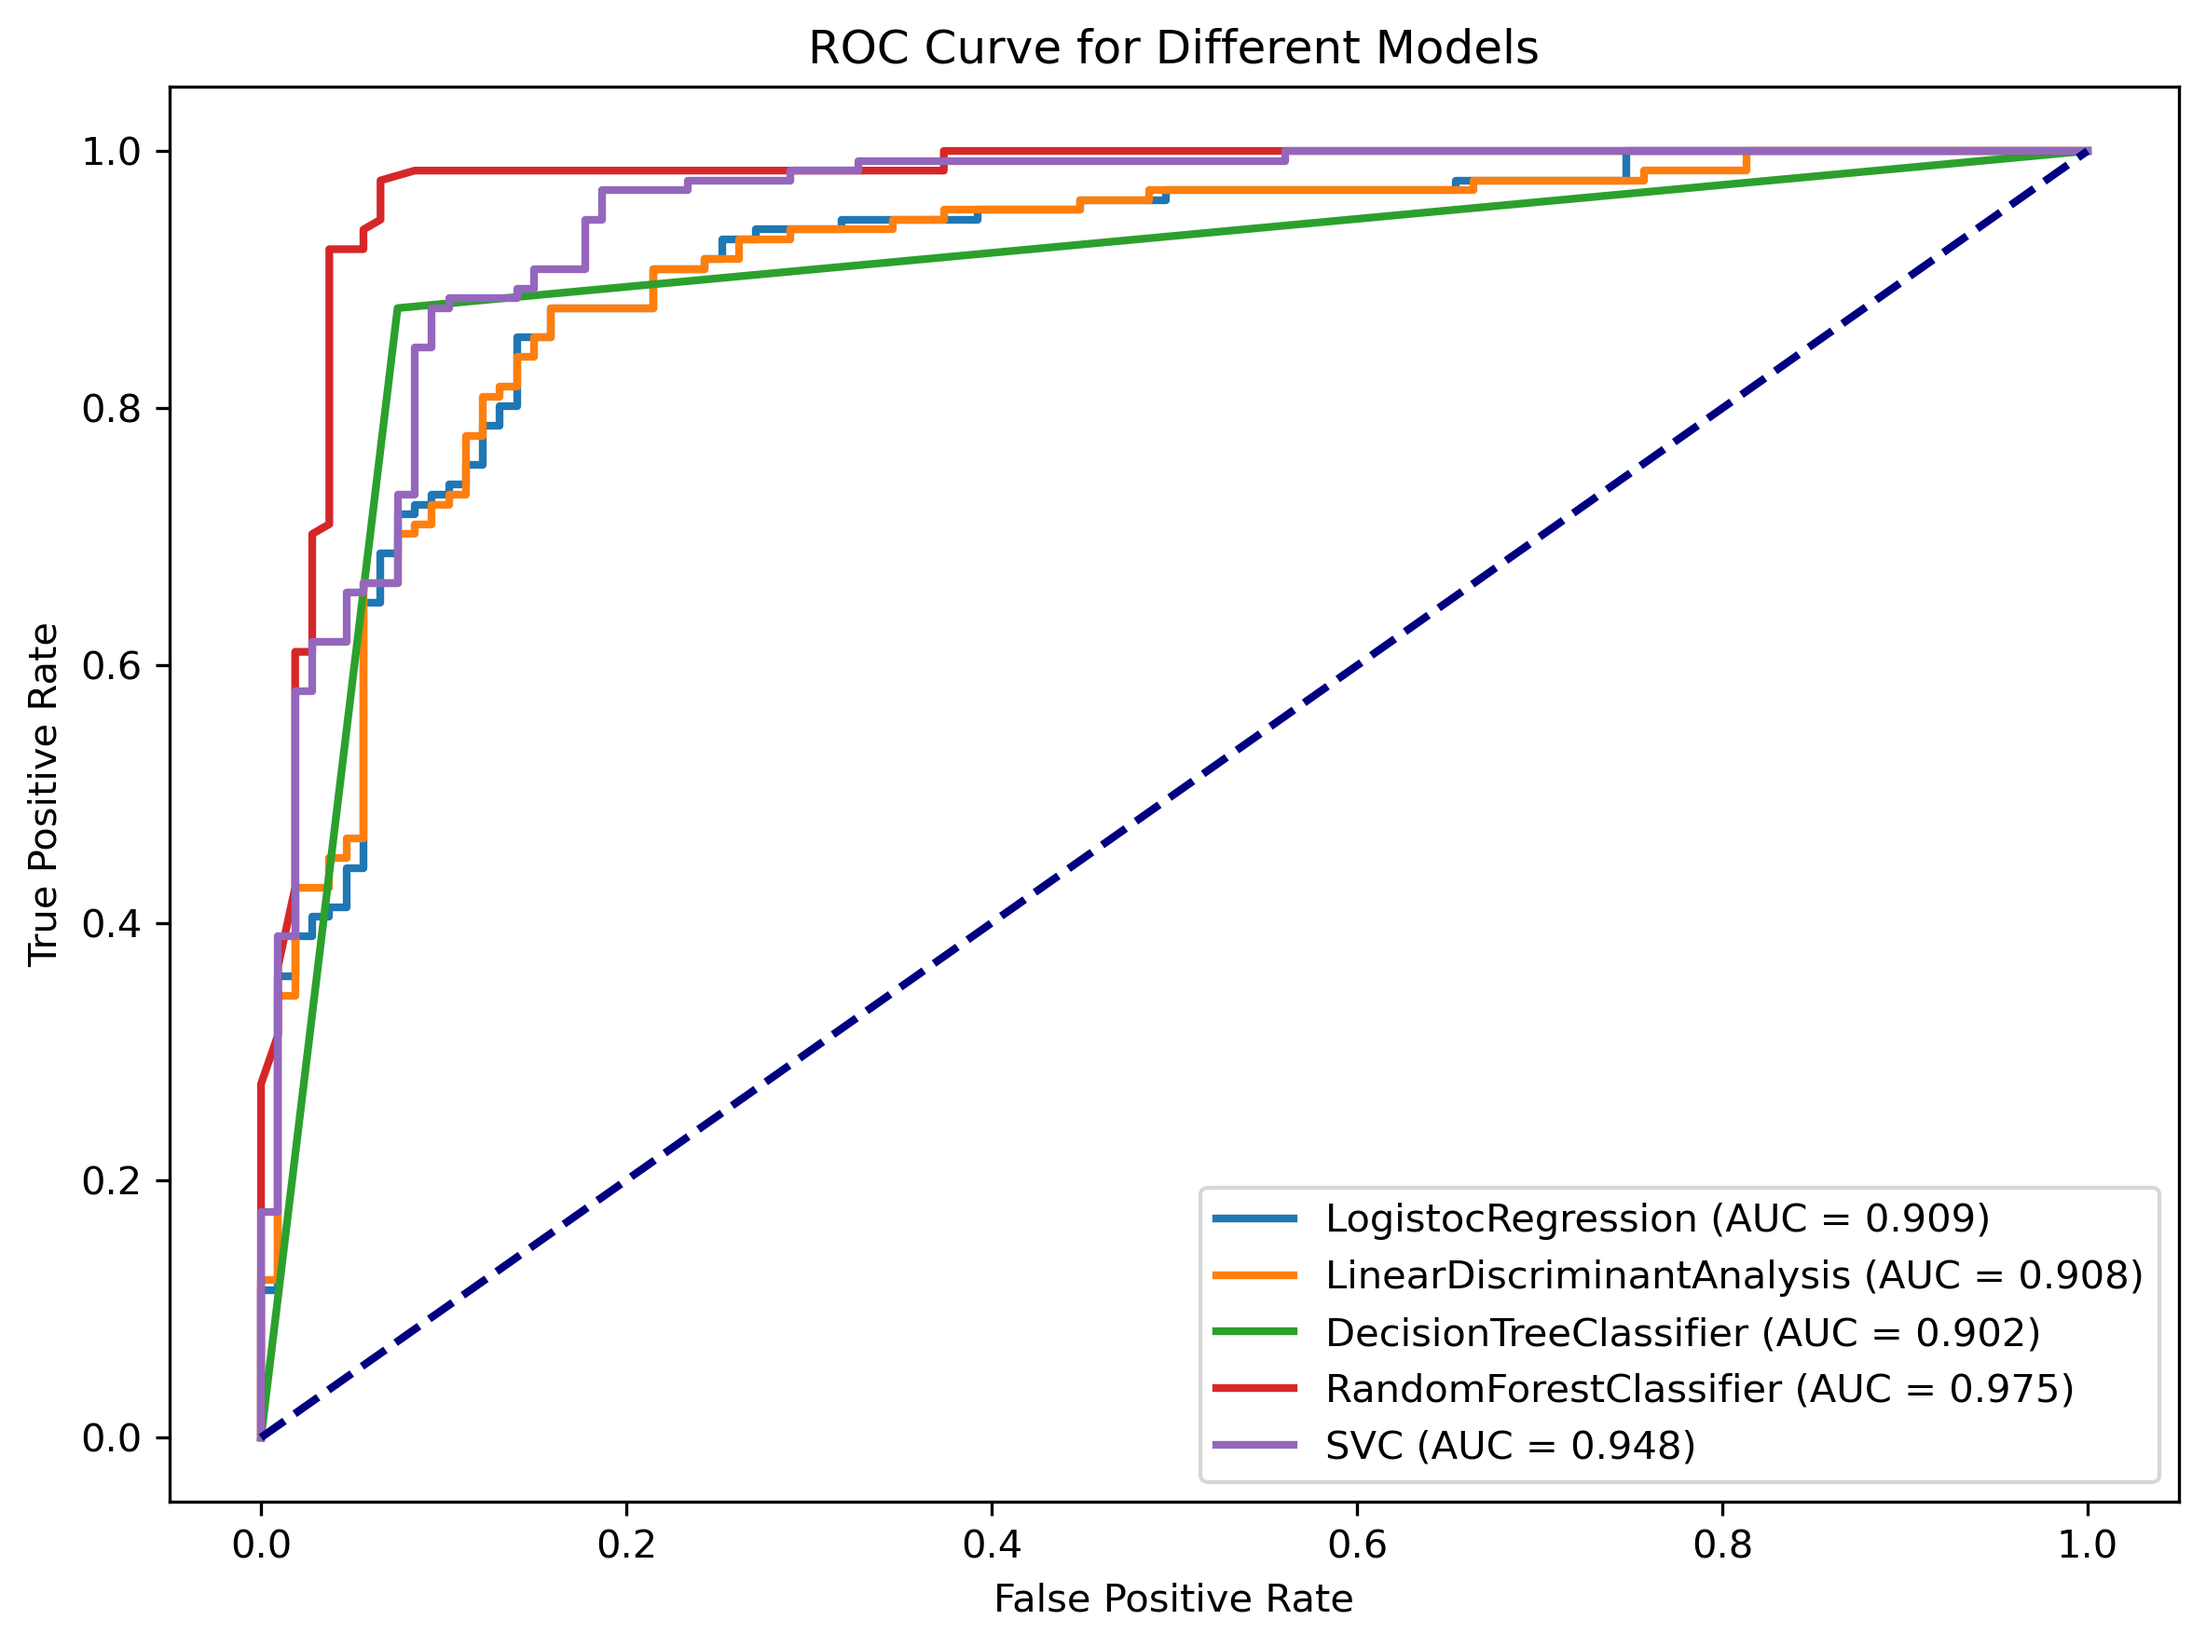
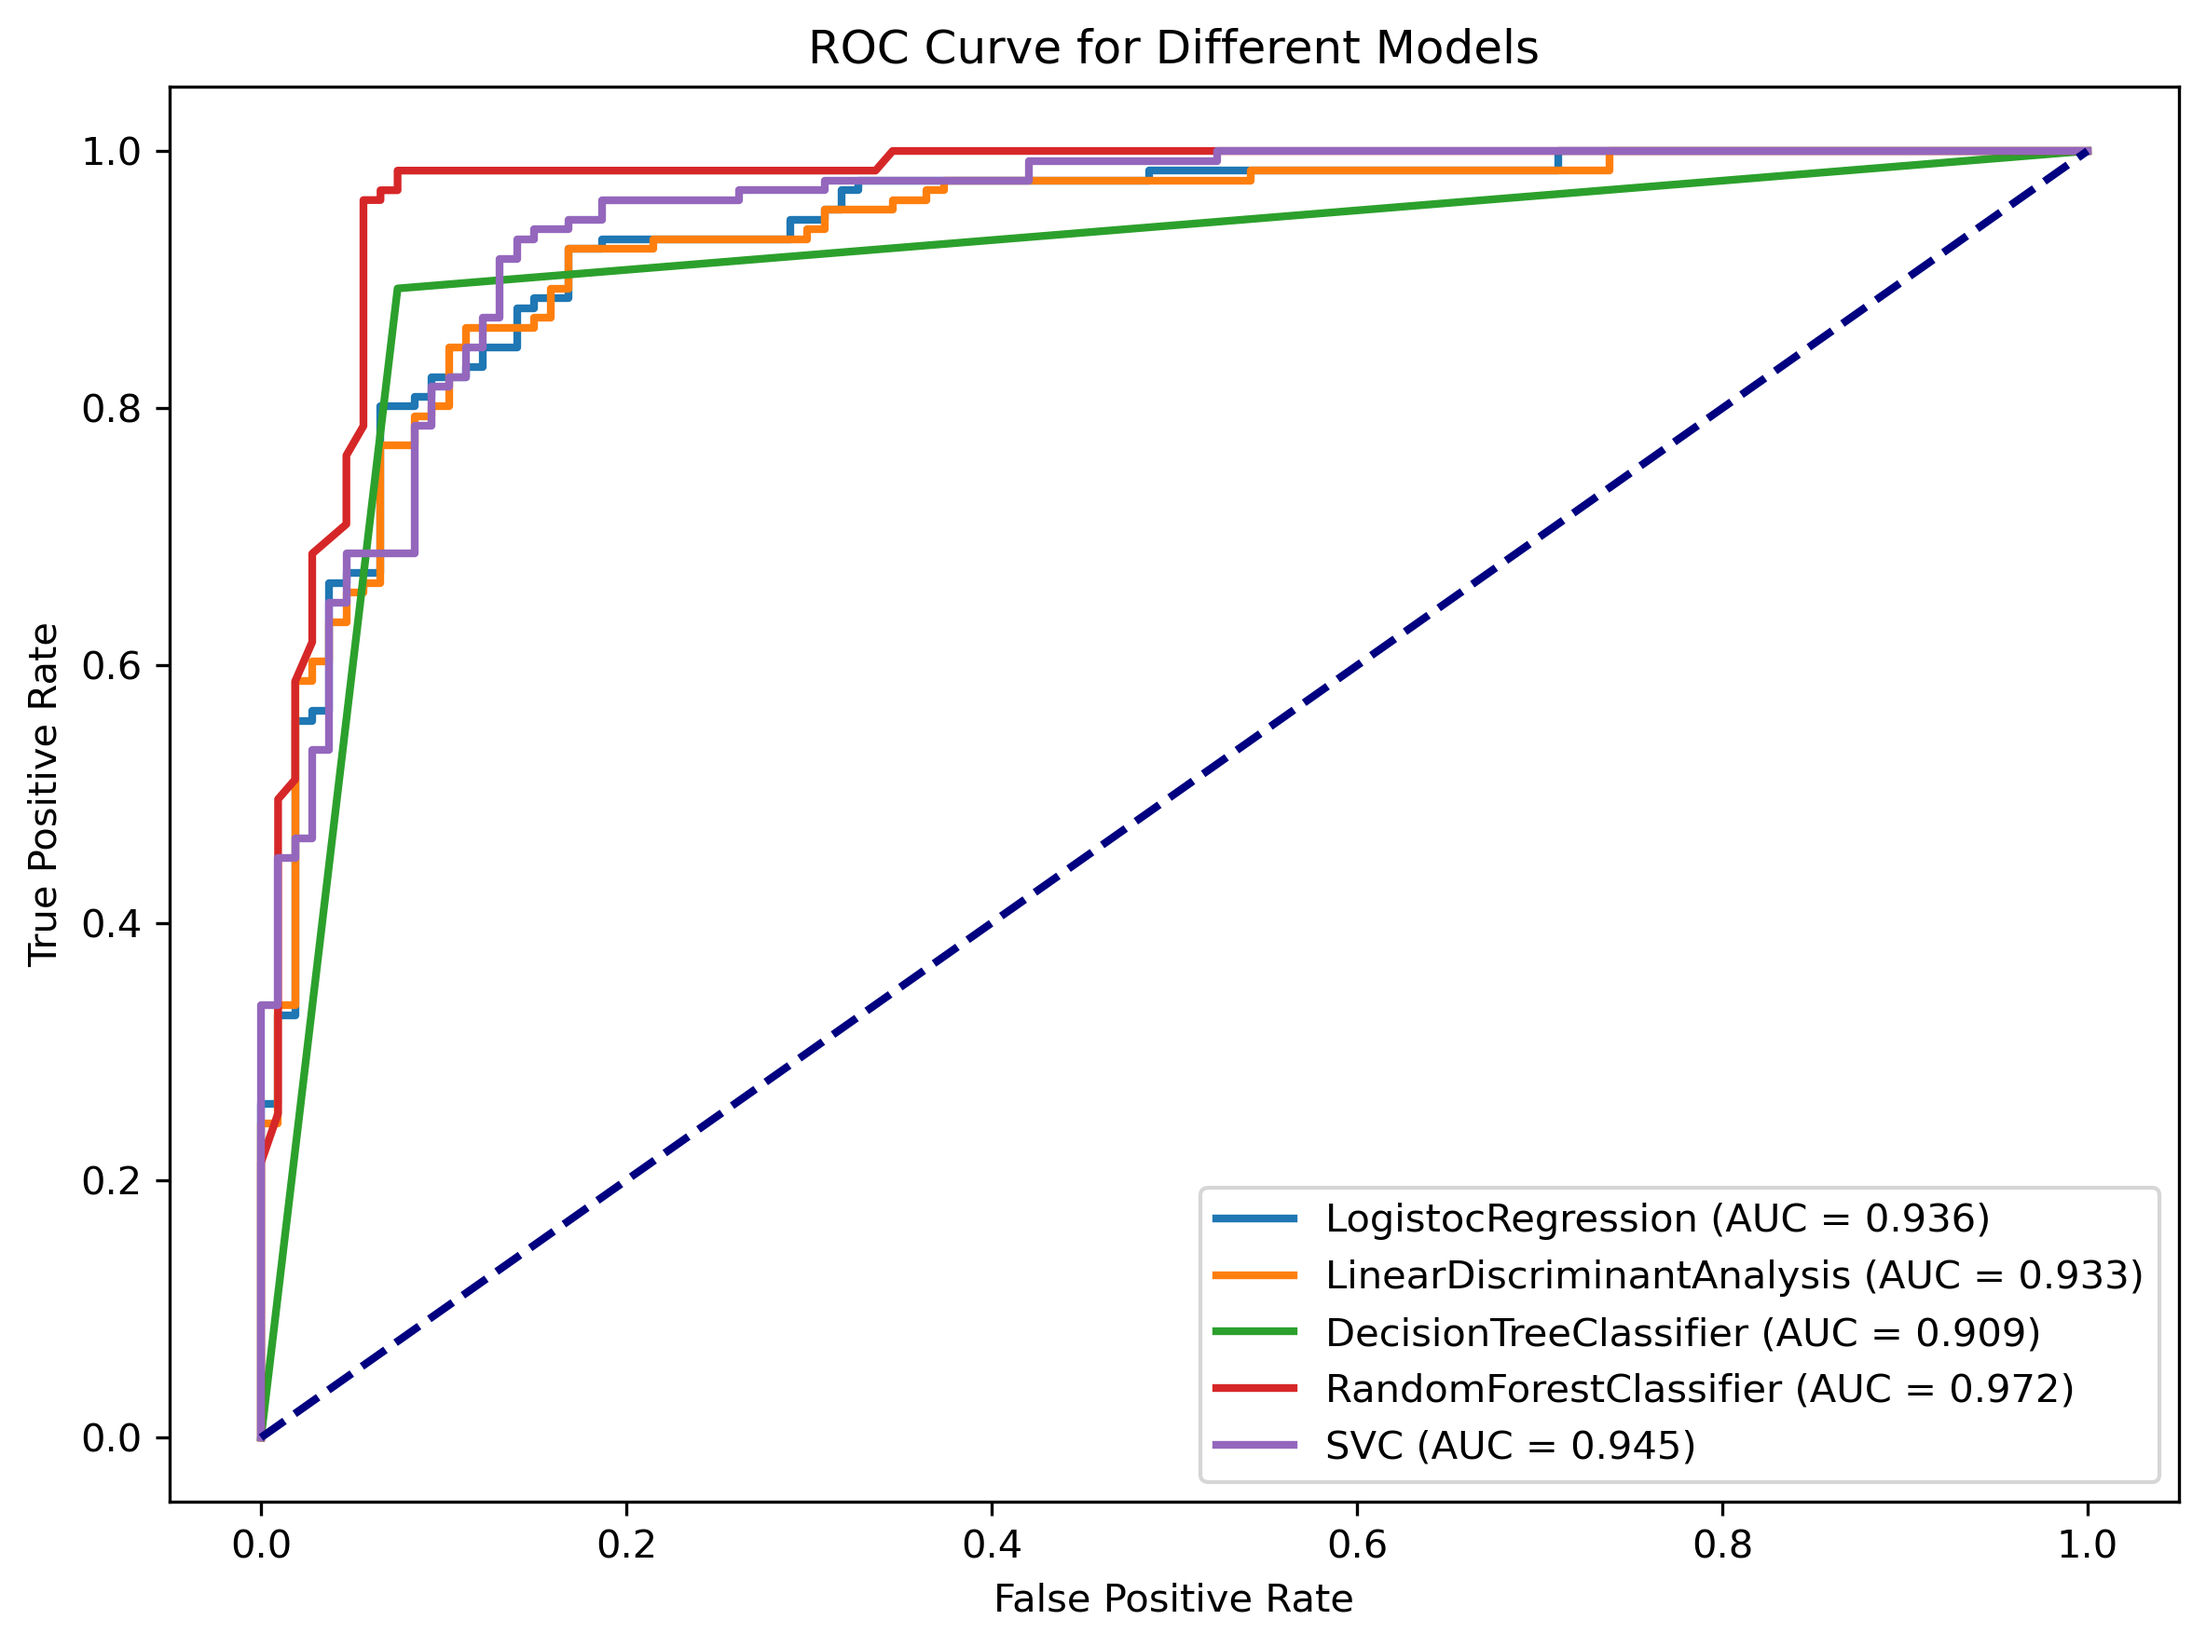
Add files via upload

Changed region(s): [[0.0925, 0.0622, 0.8635, 0.7777], [0.8635, 0.7155, 0.8944, 0.7466]]

diff --git a/Part 2 多种分类器对比（精确辅助医疗）.py b/Part 2 多种分类器对比（精确辅助医疗）.py
@@ -4,6 +4,9 @@ import numpy as np
 
 # mady by bowen xu
 
+# 固定随机种子
+np.random.seed(42)
+
 # 1. 数据预处理
 # 加载数据
 data_path = 'heart_statlog_cleveland_hungary_final.csv'
@@ -31,7 +34,8 @@ categorical_features = ['sex', 'chest pain type', 'fasting blood sugar', 'restin
 for col in categorical_features:
     data[col] = le.fit_transform(data[col])
 
-
+data = pd.get_dummies(data, columns=categorical_features)
+data1 = data.copy()
 
 # 划分数据集
 train_data, test_data = train_test_split(data, test_size=0.2, random_state=42)
@@ -198,14 +202,46 @@ plt.savefig('roc_curves_comparison.png', dpi=300, bbox_inches='tight')
 plt.show()
 
 # 5. 模型选择与变量选择变量选择
-from sklearn.feature_selection import SelectKBest
-from sklearn.feature_selection import chi2
-from sklearn.feature_selection import SelectKBest, f_classif
+# 固定随机种子
+np.random.seed(42)
 
-# 选择最佳特征
-selector = SelectKBest(f_classif, k=5)
-X_train_scaled = selector.fit_transform(X_train_scaled, y_train)
-X_test_scaled = selector.transform(X_test_scaled)
+# 1. 数据预处理
+# 加载数据
+data_path = 'heart_statlog_cleveland_hungary_final.csv'
+data = pd.read_csv(data_path)
+# 删除sex列
+data = data.drop(data['sex'])
+
+from sklearn.preprocessing import LabelEncoder
+from sklearn.decomposition import PCA
+from sklearn.model_selection import train_test_split
+from sklearn.preprocessing import StandardScaler
+
+# 初始化标签编码器
+le = LabelEncoder()
+
+# 对分类变量进行标签编码
+categorical_features = ['chest pain type', 'fasting blood sugar', 'resting ecg', 'exercise angina', 'ST slope']
+for col in categorical_features:
+    data[col] = le.fit_transform(data[col])
+
+data = pd.get_dummies(data, columns=categorical_features)
+
+# 划分数据集
+train_data, test_data = train_test_split(data, test_size=0.2, random_state=42)
+
+# 提取标签
+y_train = train_data['target'].values
+y_test = test_data['target'].values
+
+# 移除不必要的列
+train_data = train_data.drop(columns=['target'])
+test_data = test_data.drop(columns=['target'])
+
+# 标准化特征
+scaler = StandardScaler()
+X_train_scaled = scaler.fit_transform(train_data)
+X_test_scaled = scaler.transform(test_data)
 
 # 重新计算模型
 # 5.1. 逻辑回归
@@ -224,7 +260,7 @@ p1 = model_1.predict(X_test_scaled)
 
 # 解释每个自变量在logistic回归模型中对因变量的影响，即相关系数
 # 假设特征名称存储在 feature_names 列表中
-feature_names = ['age','sex','chest pain type','resting bp s','cholesterol','fasting blood sugar','resting ecg','max heart rate','exercise angina','oldpeak','ST slope']  # 替换为实际的特征名称
+feature_names = ['age','chest pain type','resting bp s','cholesterol','fasting blood sugar','resting ecg','max heart rate','exercise angina','oldpeak','ST slope']  # 替换为实际的特征名称
 
 # 将系数与特征名称结合起来
 coefficients = model_1.coef_[0]  # 如果是二分类模型，model_1.coef_ 是一个二维数组，取第一个数组

diff --git a/Part 1 PCA+决策边界（粗略自我诊断）.py b/Part 1 PCA+决策边界（粗略自我诊断）.py
@@ -19,6 +19,7 @@ categorical_features = ['sex', 'chest pain type', 'fasting blood sugar', 'restin
 for col in categorical_features:
     data[col] = le.fit_transform(data[col])
 
+
 # 划分数据集
 train_data, test_data = train_test_split(data, test_size=0.2, random_state=42)
 
@@ -37,7 +38,7 @@ X_test_scaled = scaler.transform(test_data)
 
 # 2. PCA
 # 应用PCA
-pca = PCA(n_components=2) # 只保留前两个主成分
+pca = PCA(n_components=11) # 只保留前两个主成分
 X_train_pca = pca.fit_transform(X_train_scaled)
 X_test_pca = pca.transform(X_test_scaled)
 
